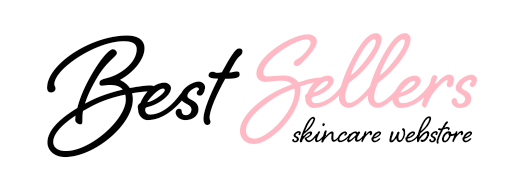
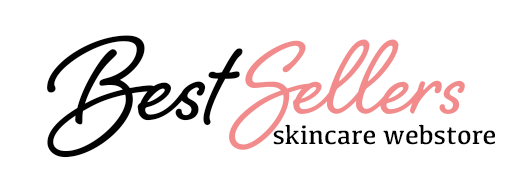
Navbar

Changed region(s): [[0.4333, 0.1685, 0.9594, 0.8427]]

diff --git a/src/components/Navbar.js b/src/components/Navbar.js
@@ -1,15 +1,36 @@
 import React from 'react'
 import styled from 'styled-components'
-//import logo from '../assets/logo.svg'
-//import { FaBars } from 'react-icons/fa'
-//import { Link } from 'react-router-dom'
-//import { links } from '../utils/constants'
-//import CartButtons from './CartButtons'
+import logo from '../assets/best-sellers.png'
+import { FaBars } from 'react-icons/fa'
+import { Link } from 'react-router-dom'
+import { links } from '../utils/constants'
+import CartButtons from './CartButtons'
 //import { useProductsContext } from '../context/products_context'
 //import { useUserContext } from '../context/user_context'
 
 const Nav = () => {
-  return <NavContainer>Nav</NavContainer>
+  return (
+    <NavContainer>
+      <div className="nav-center">
+        <div className='nav-header'>
+          <Link to="/"><img src={logo} alt="Logo"/></Link>
+          <button type="button" className="nav-toggle"><FaBars/></button>
+        </div> {/* close nav-header */}
+
+        <ul className="nav-links">
+          { links.map(link =>{
+            return (
+              <li key={link.id}>
+                <Link to={link.url}>{link.text}</Link>
+              </li>
+            )
+            })
+          }
+        </ul>
+        <CartButtons/>
+      </div> {/* close nav-center */}
+    </NavContainer>
+  )
 }
 
 const NavContainer = styled.nav`

diff --git a/src/index.css b/src/index.css
@@ -11,7 +11,7 @@ Variables
   --clr-primary-3: hsl(22, 28%, 37%);
   --clr-primary-4: hsl(22, 28%, 45%);
   /* primary/main color */
-  --clr-primary-5: hsl(22, 31%, 52%);
+  --clr-primary-5:   #f28c8c; /*hsl(22, 31%, 52%);*/
   /* lighter shades of primary color */
   --clr-primary-6: hsl(22, 31%, 60%);
   --clr-primary-7: hsl(22, 31%, 67%);
